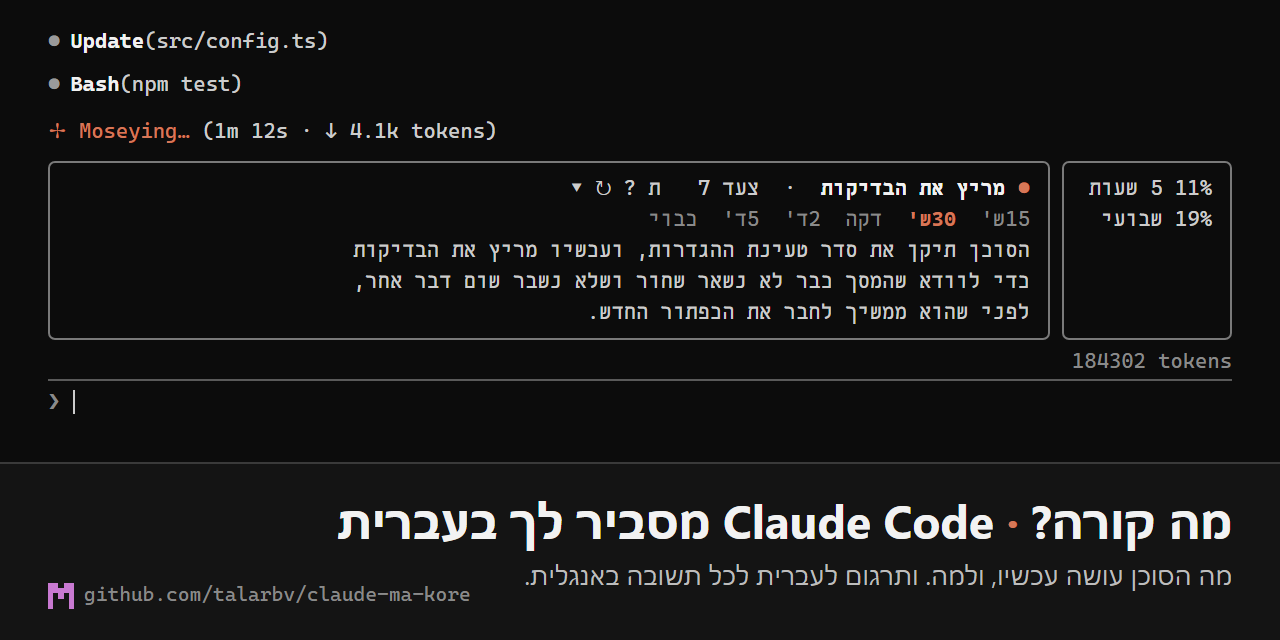
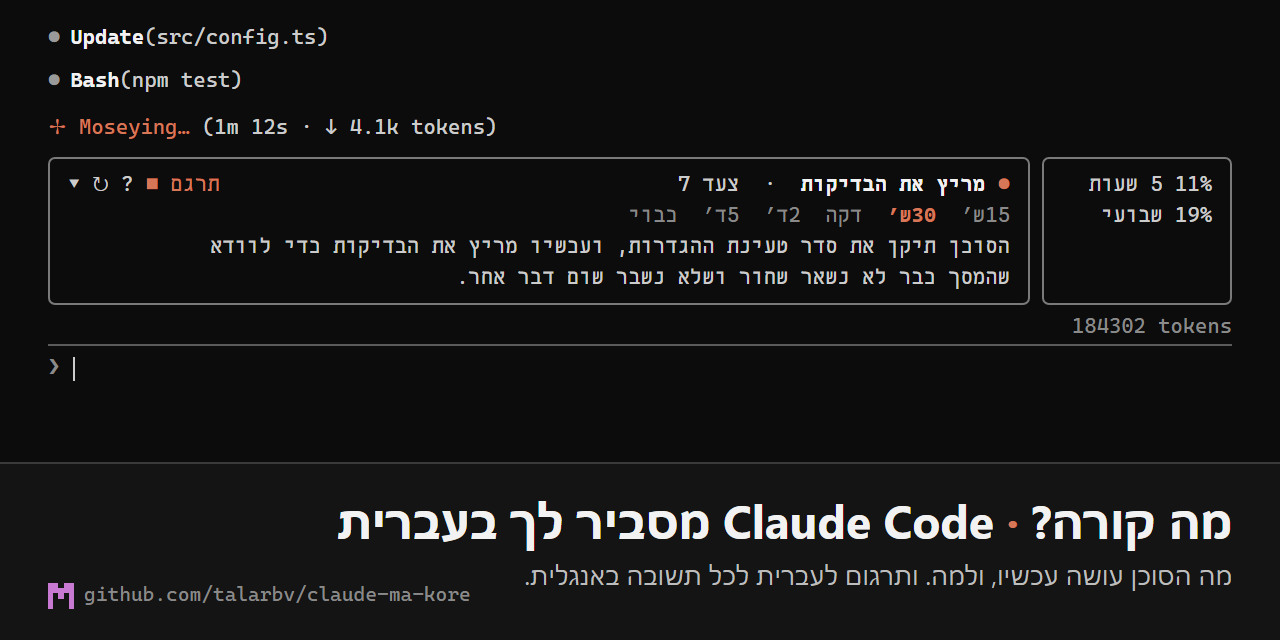
whats-happening 0.4.1: new README images drawn from the fixed band and translation
The cover and the three screenshots show the right-aligned band with
the buttons pinned left, the "תרגם" switch, a closable question and
answer, and the right-to-left translation under an English answer.
README text follows the renamed switch and the closable questions.

Claude-Session: https://claude.ai/code/session_019Kx487RqEyDfYLjessz3Z4

diff --git a/README.md b/README.md
@@ -4,17 +4,17 @@
 
 A Claude Code mod (a plugin of function hooks) that explains, in plain Hebrew, what the agent is doing right now and why, summarises long tasks in one line, and translates mostly-English answers into Hebrew. English notes follow the Hebrew below.
 
-![הפס מעל שורת ההקלדה: הפעולה הנוכחית, בורר המרווח והסבר בעברית על מה שקורה](docs/band.jpg)
+![הפס מעל שורת ההקלדה: הפעולה הנוכחית מימין, הכפתורים משמאל, בורר המרווח והסבר בעברית מיושר לימין](docs/band.png)
 
-![הפס בזמן הרצת פקודה: הפקודה כפי שהוקלדה, מספר הצעד והסבר על המטרה](docs/band-command.jpg)
+![הפס בזמן הרצת פקודה, עם שאלה שנשאלה והתשובה עליה; ה-× משמאל סוגר אותן](docs/band-question.png)
 
-![תשובה באנגלית ומתחתיה התרגום לעברית](docs/translation.jpg)
+![תשובה באנגלית ומתחתיה, אחרי קו מפריד, התרגום לעברית מיושר לימין](docs/translation.png)
 
 ## מה המוד עושה
 
 - **פס מצב מעל שורת ההקלדה**, רק בזמן שהסוכן עובד: הפעולה הנוכחית (קורא קובץ, מריץ פקודה, עובד בדפדפן) ומספר הצעד.
 - **הסברים תוך כדי עבודה**: כל כמה צעדים, לפי מרווח שבוחרים, שורה אחת בעברית שמסבירה מה הסוכן מנסה להשיג כרגע ולמה. לא "ערך קובץ X" אלא "מתקן את סדר הטעינה כדי שהמסך לא יישאר שחור". ההסברים הקודמים נפתחים בלחיצה על החץ.
-- **שדה שאלה**: לחיצה על `?` פותחת שדה. מקלידים שאלה ("למה זה לוקח זמן?") ומקבלים תשובה מתוך מה שקרה במשימה עד עכשיו.
+- **שדה שאלה**: לחיצה על `?` פותחת שדה. מקלידים שאלה ("למה זה לוקח זמן?") ומקבלים תשובה מתוך מה שקרה במשימה עד עכשיו. השאלה והתשובה נשארות בפס (עד שלוש), וה-`×` משמאל סוגר אותן.
 - **שימוש בחשבון**: אחוז הניצול של חלון 5 השעות והחלון השבועי, לצד הפס.
 - **אזהרת תקיעה**: אם אותה פעולה רצה יותר מ-5 דקות, הפס מזהיר ומזכיר שאפשר לעצור עם Esc.
 - **"בקצרה" אחרי משימה ארוכה**: למשימות של דקה ומעלה, שורת הסיום מוחלפת בסיכום בעברית: מה נעשה ומה נשאר.
@@ -47,7 +47,7 @@ claude plugin install whats-happening --marketplace talarbv/claude-ma-kore
 | לפתוח או לסגור את ההסברים הקודמים | החץ בתחילת הפס |
 | לבחור כל כמה זמן יגיע הסבר (15 שניות עד 5 דקות, או כבוי) | הסימן `↻` בפס |
 | לשאול שאלה על מה שקורה עכשיו | הסימן `?` בפס |
-| להדליק או לכבות את התרגום | האות `ת` בפס, או הפקודה `/translate` (גם `/translate on` ו-`/translate off`) |
+| להדליק או לכבות את התרגום | המתג `תרגם` בפס (ריבוע מלא: דולק, ריבוע ריק: כבוי), או הפקודה `/translate` (גם `/translate on` ו-`/translate off`) |
 
 ההעדפות נשמרות בין סשנים.
 
@@ -75,7 +75,7 @@ claude plugin install whats-happening --marketplace talarbv/claude-ma-kore
 
 Answer `y` to add the marketplace and pick a scope (user is the usual choice). From a shell: `claude plugin install whats-happening --marketplace talarbv/claude-ma-kore`. In the desktop app: the + next to the prompt box, Plugins, Add marketplace with `talarbv/claude-ma-kore`, then Add plugin.
 
-**Use.** The arrow in the band shows earlier explanations; `↻` picks the explanation interval (15 s to 5 min, or off); `?` opens the question field; `ת` or `/translate [on|off]` toggles the translation. Settings persist across sessions.
+**Use.** The arrow in the band shows earlier explanations; `↻` picks the explanation interval (15 s to 5 min, or off); `?` opens the question field (each question and its answer stay in the band until its `×` closes them); the `תרגם` switch (filled square: on) or `/translate [on|off]` toggles the translation. Settings persist across sessions.
 
 **Notes.** Tested on Claude Code 2.1.316, terminal, Windows. Drawn in the terminal and the desktop app, not in the mobile app. Haiku calls count against your own usage. What reaches Haiku: your prompt, a short label per step (tool and file), a short excerpt of each tool's result, and, for the translation, the final answer; all of it inside the Anthropic API, like the conversation itself.
 
